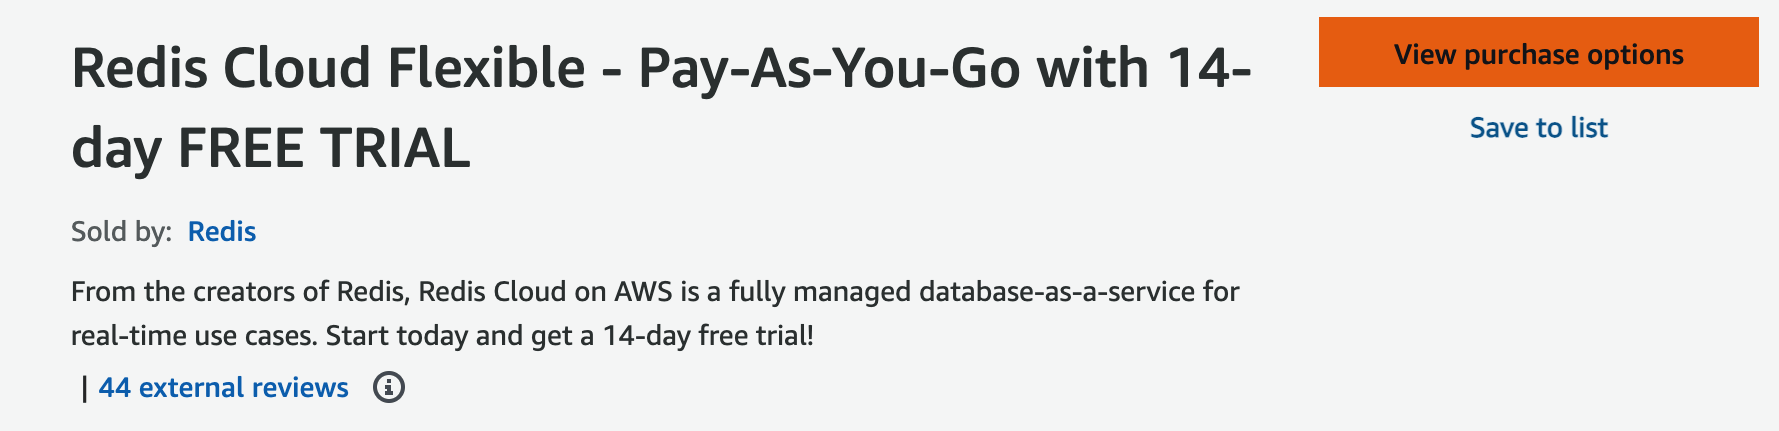
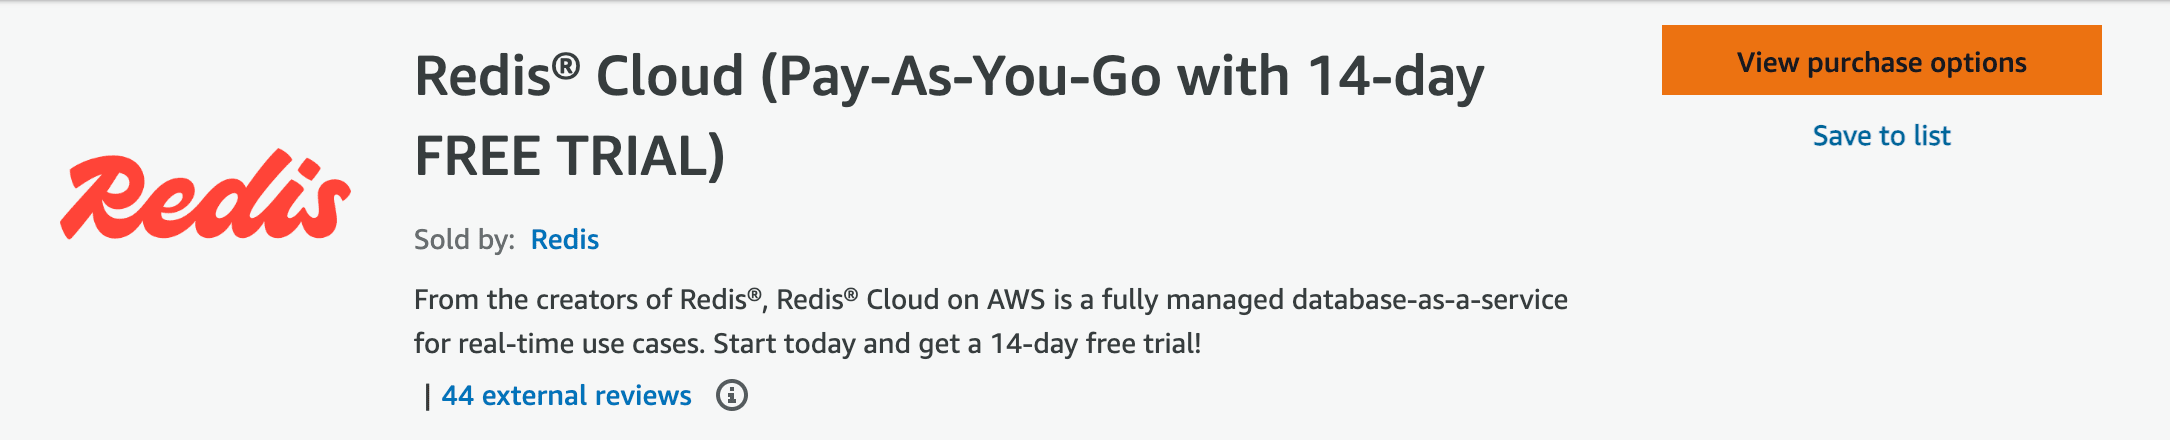
AWS Marketplace changes

diff --git a/content/operate/rc/cloud-integrations/aws-marketplace/_index.md b/content/operate/rc/cloud-integrations/aws-marketplace/_index.md
@@ -17,9 +17,9 @@ Here's how to subscribe to Redis Cloud with AWS Marketplace:
 
 1.  Sign in to the [AWS console](https://console.aws.amazon.com/).
 
-1.  Search AWS Marketplace for [Redis Cloud Flexible - Pay-As-You-Go with 14-day FREE TRIAL](https://aws.amazon.com/marketplace/pp/prodview-mwscixe4ujhkq).
+1.  Search AWS Marketplace for [Redis Cloud (Pay-As-You-Go with 14-day FREE TRIAL)](https://aws.amazon.com/marketplace/pp/prodview-mwscixe4ujhkq).
 
-    {{<image filename="images/rc/aws-marketplace-rc-flexible-plan.png" alt="The Redis Cloud - Flexible plan listing on AWS Marketplace" >}}
+    {{<image filename="images/rc/aws-marketplace-rc-flexible-plan.png" alt="The Redis Cloud listing on AWS Marketplace" >}}
 
 1.  Subscribe to the listing, locate the **Set Up Your Account button**, and then select it to begin mapping your Redis Cloud account with your AWS Marketplace account.
 
@@ -39,10 +39,10 @@ Here's how to subscribe to Redis Cloud with AWS Marketplace:
 
     In addition, AWS Marketplace is reported as the selected payment method.
 
-At this point, you can create a new database using the [standard workflow]({{< relref "/operate/rc/databases/create-database/create-pro-database-new" >}}), with one important change. You don't need to enter a payment method, as it's automatically assigned to your AWS Marketplace account.
+At this point, you can create a new database using the [standard workflow]({{< relref "/operate/rc/databases/create-database" >}}), with one important change. You don't need to enter a payment method, as it's automatically assigned to your AWS Marketplace account.
 
 To confirm this, review the payment method associated with your subscription.
 
 {{<image filename="images/rc/aws-marketplace-billing-confirm.png" alt="The AWS Marketplace billing confirmation." width="300px">}}
 
-If, for whatever reason, your AWS Marketplace account is disabled or otherwise unavailable, you won't be able to use your databases until the billing method is updated.  For help, [contact support](https://redis.com/company/support/).
+If your AWS Marketplace account is deactivated or otherwise unavailable, you won't be able to use your databases until the billing method is updated.  For help, [contact support](https://redis.com/company/support/).
